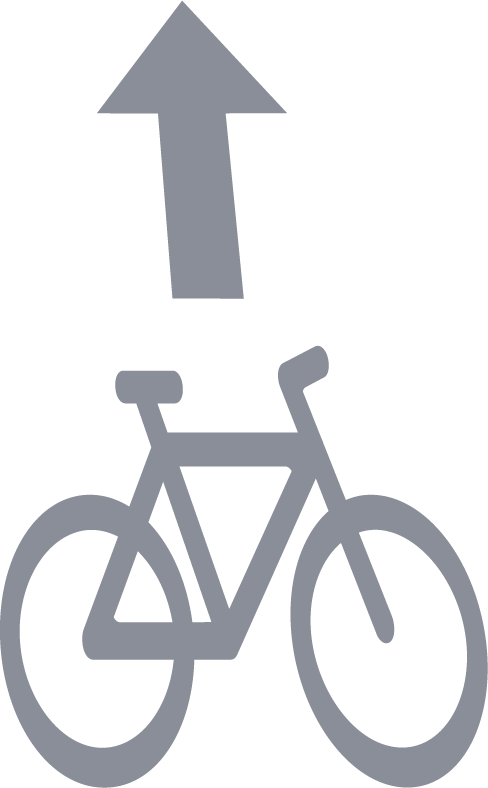
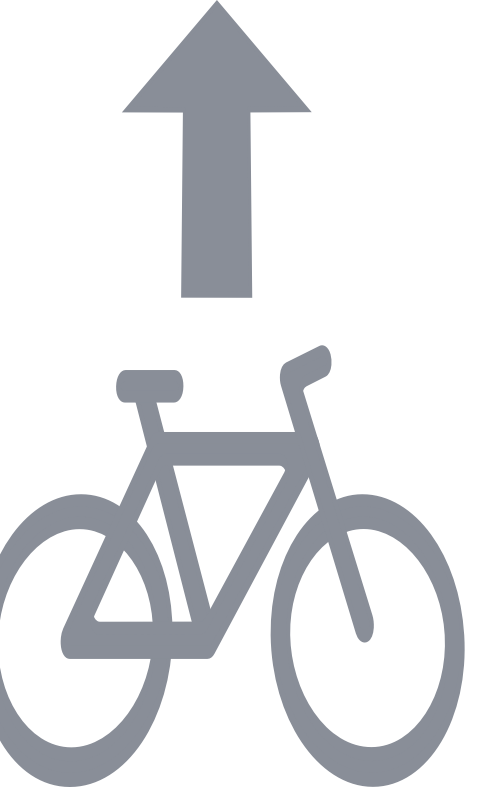
road: straighten the bike stencil and double the BUS ONLY spacing
The bike stencil paths were drawn leaning ~0.088 right per unit of height;
a skew wrapper in the SVG counters it and the PNG is re-rendered from it.
The road tile now covers 90 z per repeat with one BUS ONLY and two bike
stencils, rasterised at half scale so memory stays where it was. RoadSurface
derives the raster scale from the texture width, so the builder can pick
any resolution without a shared constant.

diff --git a/specs/001-robonarc-game/contracts/asset-conventions.md b/specs/001-robonarc-game/contracts/asset-conventions.md
@@ -24,7 +24,7 @@ assets/
 │   ├── road-tile.png           # GENERATED by tools/build_road_tile.gd: one straight repeat of road with
 │   │                           # every fill, edge, line, dash and stencil baked in; RoadSurface projects it
 │   ├── stencil-bus-only-straight.png  # source for the tile builder
-│   ├── stencil-bike-lane.png          # source for the tile builder
+│   ├── stencil-bike-lane.png          # source for the tile builder (rendered from the .svg, which straightens the art)
 │   └── bus-stop-stripe.png     # optional zone marker on the road; nothing drawn when absent
 ├── overlays/
 │   └── plate.png               # MISSING → placeholder
